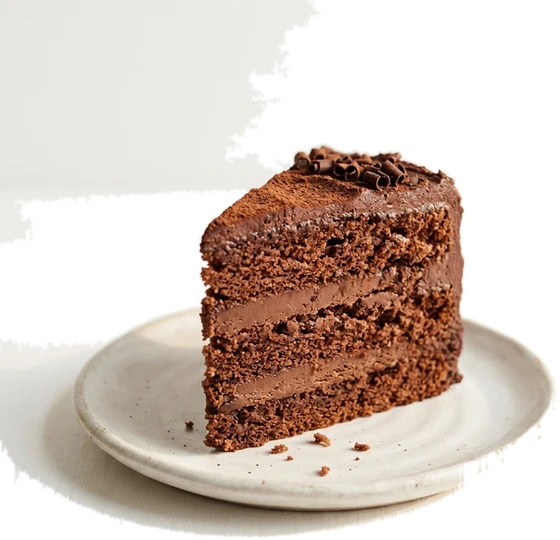
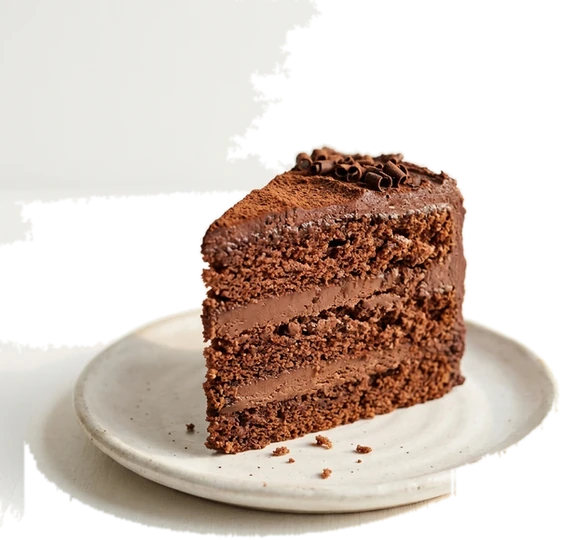
Seat snack plates on tray seats

diff --git a/src/components/RotaryTableStage.tsx b/src/components/RotaryTableStage.tsx
@@ -866,7 +866,11 @@ export const RotaryTableStage = memo(function RotaryTableStage({
               // from the numeric key — only the moving scales are compared.
               const shiftPct = isCup ? -45.5 : -50;
               const yOff =
-                item.categoryId === 'cat-d3a8c60cb86d1f5e' ? 5 : isCup ? 9 : 6;
+                item.categoryId === 'cat-d3a8c60cb86d1f5e'
+                  ? -Math.round(btnEl.offsetHeight * 0.3)
+                  : isCup
+                    ? 9
+                    : 6;
               const sx = proj.perspScale;
               const sy = proj.perspScale * revealScaleY;
               writeStyleNums(btnEl, 'transform', [sx, sy], () =>
@@ -1750,7 +1754,7 @@ export const RotaryTableStage = memo(function RotaryTableStage({
               ? cutoutDims.width / cutoutDims.height
               : 1.2;
             const baseHeight = isPlate
-              ? Math.round((targetGeo.cupCutoutH * 0.95) / plateAspect)
+              ? Math.round((targetGeo.cupCutoutH * 0.85) / plateAspect)
               : isCup
                 ? Math.round(targetGeo.cupCutoutH * volumeFactor)
               : Math.round(
@@ -1766,9 +1770,9 @@ export const RotaryTableStage = memo(function RotaryTableStage({
               getCutoutFootAspect(item.cutoutImage) ??
               (isCup ? 0.64 : 0.29);
             const baseFootW = baseHeight * footAspect;
-            const shadowBoxW = Math.round(baseFootW * (isPlate ? 1.3 : 1.9));
+            const shadowBoxW = Math.round(baseFootW * (isPlate ? 1.15 : 1.9));
             const shadowBoxH = Math.round(
-              Math.max(18, baseFootW * (isPlate ? 0.3 : 0.52)),
+              Math.max(16, baseFootW * (isPlate ? 0.22 : 0.52)),
             );
             const causticTint = isCup
               ? null

diff --git a/src/components/FadeInImage.tsx b/src/components/FadeInImage.tsx
@@ -120,10 +120,10 @@ const CUTOUT_DIMENSIONS: Record<string, { width: number; height: number }> = {
   'tea.webp': { width: 523, height: 540 },
   'saffron-tea.webp': { width: 534, height: 540 },
   'eyvan_cortado.webp': { width: 798, height: 540 },
-  'eyvan_croissant.webp': { width: 625, height: 380 },
-  'eyvan_chocolate_twist.webp': { width: 581, height: 481 },
-  'eyvan_chocolate_cheesecake.webp': { width: 616, height: 407 },
-  'eyvan_cake_of_day.webp': { width: 560, height: 540 },
+  'eyvan_croissant.webp': { width: 625, height: 378 },
+  'eyvan_chocolate_twist.webp': { width: 581, height: 477 },
+  'eyvan_chocolate_cheesecake.webp': { width: 616, height: 410 },
+  'eyvan_cake_of_day.webp': { width: 563, height: 540 },
   'eyvan_cappuccino.webp': { width: 714, height: 540 },
   'eyvan_mocha.webp': { width: 721, height: 540 },
   'eyvan_hot_mocha.webp': { width: 708, height: 540 },
@@ -180,10 +180,10 @@ const CUTOUT_FOOT_ASPECT: Record<string, number> = {
   'tea.webp': 0.61,
   'saffron-tea.webp': 0.62,
   'eyvan_cortado.webp': 0.6,
-  'eyvan_croissant.webp': 0.98,
-  'eyvan_chocolate_twist.webp': 0.85,
-  'eyvan_chocolate_cheesecake.webp': 1.07,
-  'eyvan_cake_of_day.webp': 0.73,
+  'eyvan_croissant.webp': 0.96,
+  'eyvan_chocolate_twist.webp': 1.01,
+  'eyvan_chocolate_cheesecake.webp': 1.0,
+  'eyvan_cake_of_day.webp': 0.84,
   'eyvan_cappuccino.webp': 0.5,
   'eyvan_mocha.webp': 0.48,
   'eyvan_hot_mocha.webp': 0.52,
